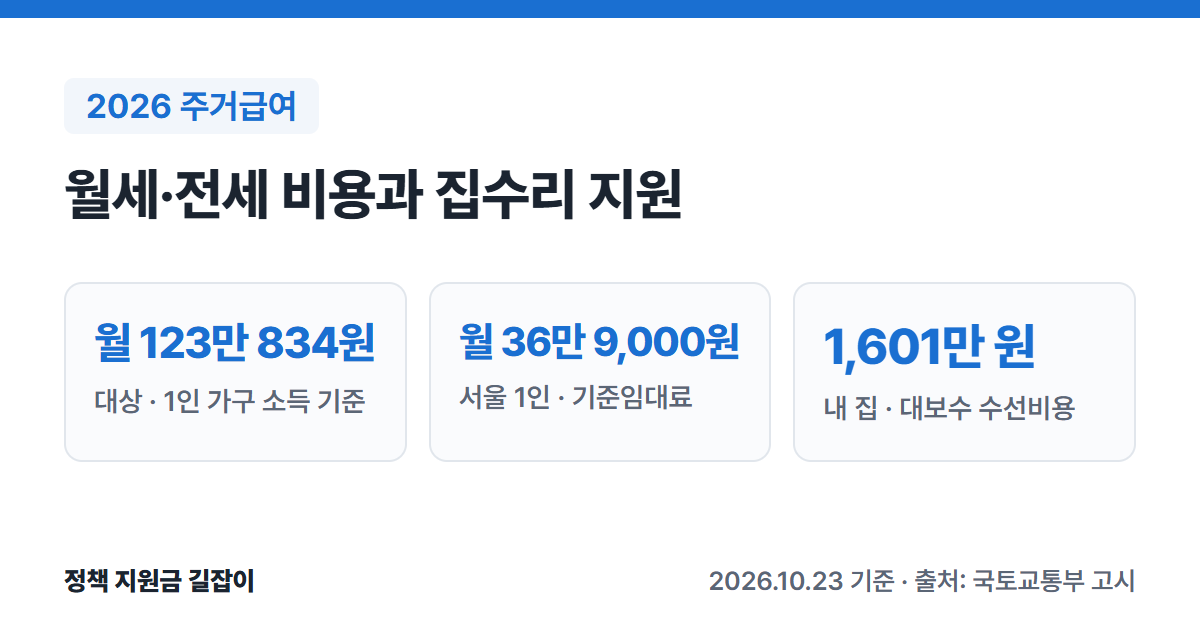
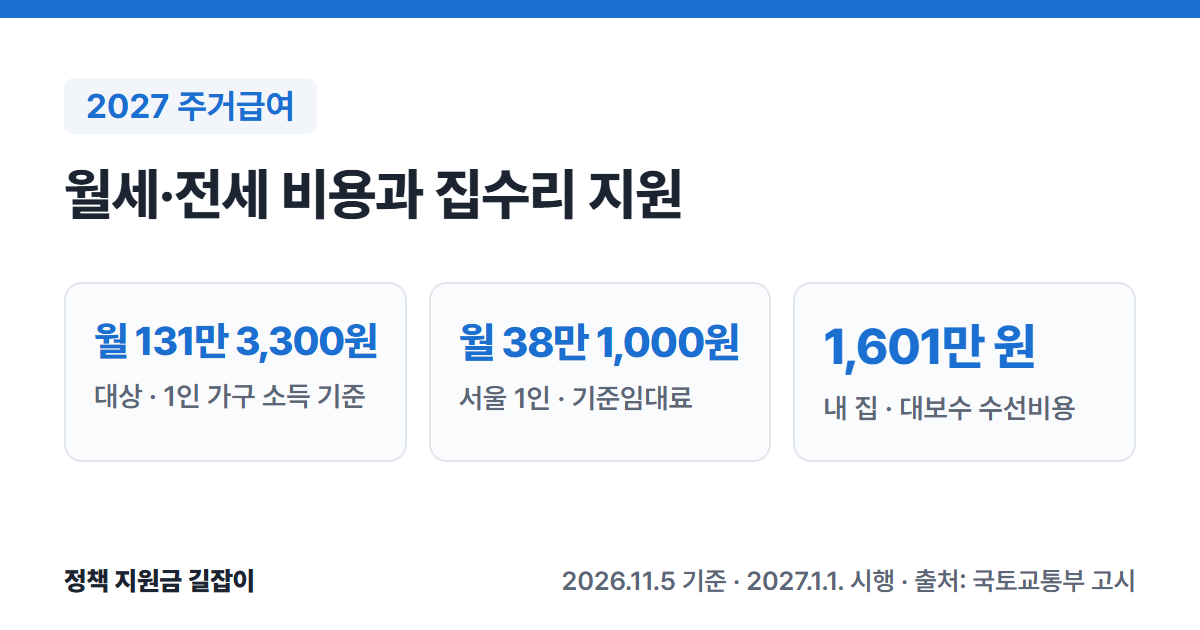
주거급여 글을 2027년 기준(국토부 고시 제2026-455호, 2027.1.1. 시행)으로 갱신, 카드·관련 글 링크 이름 수정

diff --git a/_tools/card.html b/_tools/card.html
@@ -211,10 +211,10 @@ const cards = {
     foot: "2026.10.24 기준 · 출처: 고용노동부·고용보험법"
   },
   "housing-benefit-2026": {
-    label: "2026 주거급여",
+    label: "2027 주거급여",
     title: "월세·전세 비용과 집수리 지원",
-    stats: [["월 123만 834원", "대상 · 1인 가구 소득 기준"], ["월 36만 9,000원", "서울 1인 · 기준임대료"], ["1,601만 원", "내 집 · 대보수 수선비용"]],
-    foot: "2026.10.23 기준 · 출처: 국토교통부 고시"
+    stats: [["월 131만 3,300원", "대상 · 1인 가구 소득 기준"], ["월 38만 1,000원", "서울 1인 · 기준임대료"], ["1,601만 원", "내 집 · 대보수 수선비용"]],
+    foot: "2026.11.5 기준 · 2027.1.1. 시행 · 출처: 국토교통부 고시"
   },
   "emergency-welfare-support-2026": {
     label: "2026 긴급복지지원",

diff --git a/_posts/2026-10-23-housing-benefit-2026.md b/_posts/2026-10-23-housing-benefit-2026.md
@@ -1,6 +1,6 @@
 ---
 layout: post
-title: "2026 주거급여 총정리: 서울 1인 월 최대 36만 9,000원, 자가 가구 집수리 대보수 1,601만 원 (대상·금액·신청 방법)"
+title: "2027 주거급여 총정리: 서울 1인 월 최대 38만 1,000원, 1인 가구 소득 131만 3,300원 이하 (대상·금액·신청 방법)"
 date: 2026-10-23 10:00:00 +0900
 topic: 생활비
 who: ["중위소득 48% 이하"]
@@ -8,15 +8,15 @@ image: /assets/images/cards/housing-benefit-2026.png
 ---
 
 **주거급여**는 소득이 낮은 가구에 월세·전세 비용을 지원하고, 내 집에 사는 가구에는 낡은 집을 고쳐 주는 제도예요.
-2026년에는 소득인정액이 **기준 중위소득 48% 이하**인 가구가 받을 수 있어요. 1인 가구는 **월 123만 834원 이하**예요.
-국토교통부 고시 원문을 바탕으로 대상, 지역별 금액, 계산 방법, 신청 방법을 정리했어요.
+**2027년 1월 1일**부터 새 기준이 적용돼요. 소득인정액이 **기준 중위소득 48% 이하**인 가구가 받을 수 있고, 1인 가구는 **월 131만 3,300원 이하**예요. (출처①)
+2026년 12월까지는 2026년 기준이 그대로 쓰여요. (출처①⑥) 국토교통부 고시 원문을 바탕으로 두 해 기준을 함께 정리했어요.
 
-![2026 주거급여 요약: 대상 1인 가구 소득 기준 월 123만 834원, 서울 1인 가구 기준임대료 월 36만 9,000원, 내 집 대보수 수선비용 1,601만 원](/assets/images/cards/housing-benefit-2026.png){: .summary-card}
+![2027 주거급여 요약: 대상 1인 가구 소득 기준 월 131만 3,300원, 서울 1인 가구 기준임대료 월 38만 1,000원, 내 집 대보수 수선비용 1,601만 원](/assets/images/cards/housing-benefit-2026.png){: .summary-card}
 
 > 💡 **핵심 요약**
-> - 소득인정액이 **기준 중위소득 48% 이하**면 받을 수 있어요. 1인 가구 **월 123만 834원**, 4인 가구 **월 311만 7,474원** 이하예요. (출처①)
-> - 세 사는 가구는 지역·가구원 수별 **기준임대료**까지 실제 임차료를 받아요. 서울 1인 가구는 **월 36만 9,000원**이 상한이에요. (출처①②)
-> - 내 집에 사는 가구는 집 상태에 따라 수선비용 기준금액 **590만 원~1,601만 원**의 **80~100%**를 수리로 지원받아요. (출처①)
+> - 2027년에는 소득인정액이 **기준 중위소득 48% 이하**면 받을 수 있어요. 1인 가구 **월 131만 3,300원**, 4인 가구 **월 332만 6,345원** 이하예요. (출처①)
+> - 세 사는 가구는 지역·가구원 수별 **기준임대료**까지 실제 임차료를 받아요. 2027년 서울 1인 가구는 **월 38만 1,000원**이 상한이에요(2026년 36만 9,000원). (출처①②⑥)
+> - 내 집에 사는 가구는 집 상태에 따라 수선비용 기준금액 **590만 원~1,601만 원**의 **80~100%**를 수리로 지원받아요. 2026년과 같아요. (출처①⑥)
 
 > **출처 표시 방법**: 본문의 (출처①) 같은 표시는 글 끝 출처 목록의 번호와 같아요.
 
@@ -36,6 +36,7 @@ image: /assets/images/cards/housing-benefit-2026.png
 | 세 사는 가구 | 기준임대료 안에서 **실제 임차료** 지원 (현금) |
 | 내 집 가구 | 경보수·중보수·대보수 **집수리** 지원 |
 | 청년 분리지급 | 부모와 따로 사는 **만 19~30세 미만** 미혼 자녀 |
+| 2027년 기준 | **2027.1.1.**부터 적용 |
 | 신청 | 주소지 **읍·면·동 주민센터** 또는 **복지로** |
 
 (출처①②③⑤)
@@ -46,19 +47,19 @@ image: /assets/images/cards/housing-benefit-2026.png
 
 ### 소득인정액이 기준 중위소득 48% 이하예요
 
-**소득인정액**은 한 달 소득에 재산을 소득으로 바꾼 금액을 더한 값이에요. (출처⑤) 이 금액이 기준 중위소득 48%인 아래 기준 이하여야 해요. (출처①⑤)
+**소득인정액**은 한 달 소득에 재산을 소득으로 바꾼 금액을 더한 값이에요. (출처⑤) 이 금액이 기준 중위소득 48%인 아래 기준 이하여야 해요. (출처①⑤⑥)
 
-| 가구원 수 | 선정기준 (월) |
-|---|---|
-| 1인 | **123만 834원** |
-| 2인 | **201만 5,660원** |
-| 3인 | **257만 2,337원** |
-| 4인 | **311만 7,474원** |
-| 5인 | **362만 7,225원** |
-| 6인 | **410만 6,857원** |
-| 7인 | **456만 7,272원** |
+| 가구원 수 | 2027년 (월) | 2026년 (월) |
+|---|---|---|
+| 1인 | **131만 3,300원** | 123만 834원 |
+| 2인 | **215만 710원** | 201만 5,660원 |
+| 3인 | **274만 4,684원** | 257만 2,337원 |
+| 4인 | **332만 6,345원** | 311만 7,474원 |
+| 5인 | **387만 249원** | 362만 7,225원 |
+| 6인 | **438만 2,016원** | 410만 6,857원 |
+| 7인 | **487만 3,279원** | 456만 7,272원 |
 
-(출처①)
+(2027년 출처①, 2026년 출처⑥)
 
 8인 이상 가구는 7인 기준에 '7인과 6인 기준의 차이'를 더해서 정해요. (출처①)
 
@@ -74,7 +75,24 @@ image: /assets/images/cards/housing-benefit-2026.png
 
 세 사는 가구는 **임차급여**, 내 집에 사는 가구는 **수선유지급여**를 받아요. 두 가지를 동시에 받지는 않아요. (출처②)
 
-### 세 사는 가구: 기준임대료 (월 상한)
+### 세 사는 가구: 2027년 기준임대료 (월 상한)
+
+| 가구원 수 | 서울 / 경기·인천 | 광역시 등 / 그 외 |
+|---|---|---|
+| 1인 | **38만 1천** / **31만 3천** | **25만 9천** / **23만 4천** |
+| 2인 | **43만 1천** / **35만 2천** | **29만 1천** / **26만 5천** |
+| 3인 | **51만 4천** / **42만 2천** | **34만 7천** / **31만 8천** |
+| 4인 | **59만 6천** / **48만 8천** | **40만 3천** / **36만 9천** |
+| 5인 | **61만 8천** / **50만 5천** | **41만 8천** / **38만 2천** |
+| 6인 | **73만 1천** / **59만 9천** | **49만 2천** / **45만 2천** |
+
+(출처①, 단위: 원)
+
+- **광역시 등**: 광역시, 세종시, 수도권 밖 특례시예요. (출처①)
+- 7인 가구는 6인 기준임대료와 같아요. 8~9인 가구는 6인 기준임대료에 10%를 더해요. (출처①)
+
+<details markdown="1">
+<summary>2026년 12월까지 적용되는 2026년 기준임대료 보기</summary>
 
 | 가구원 수 | 서울 / 경기·인천 | 광역시 등 / 그 외 |
 |---|---|---|
@@ -85,10 +103,9 @@ image: /assets/images/cards/housing-benefit-2026.png
 | 5인 | **59만 1천** / **47만 9천** | **39만 4천** / **34만** |
 | 6인 | **69만 9천** / **56만 8천** | **46만 3천** / **40만 2천** |
 
-(출처①, 단위: 원)
+(출처⑥, 단위: 원)
 
-- **광역시 등**: 광역시, 세종시, 수도권 밖 특례시예요. (출처①)
-- 7인 가구는 6인 기준임대료와 같아요. 8~9인 가구는 6인 기준임대료에 10%를 더해요. (출처①)
+</details>
 
 ### 실제로 받는 금액 계산 방법
 
@@ -96,15 +113,15 @@ image: /assets/images/cards/housing-benefit-2026.png
 2. 실제 임차료와 기준임대료 중 **적은 금액**이 기본 금액이에요. (출처②)
 3. 소득인정액이 **생계급여 선정기준**보다 많으면, 넘는 금액의 **30%**를 빼요. (출처②)
 
-생계급여 선정기준은 2026년 1인 가구 **82만 556원**, 4인 가구 **207만 8,316원**이에요. (출처④)
+2027년 생계급여 선정기준은 1인 가구 **87만 5,533원**, 4인 가구 **221만 7,563원**이에요. (출처④)
 
-> **예시 (계산해 본 값)**: 서울에 사는 1인 가구, 월세 40만 원, 보증금 500만 원, 소득인정액 100만 원
+> **예시 (계산해 본 값)**: 2027년, 서울에 사는 1인 가구, 월세 40만 원, 보증금 500만 원, 소득인정액 100만 원
 > - 실제 임차료: 40만 원 + (500만 원 × 4% ÷ 12 = 약 1만 6,667원) = 약 41만 6,667원
-> - 기준임대료 36만 9,000원이 더 적으므로 기본 금액은 36만 9,000원
-> - 자기부담: (100만 원 − 82만 556원) × 30% = 약 5만 3,833원
-> - 받는 금액: 36만 9,000원 − 5만 3,833원 = **월 약 31만 5,170원** (10원 단위로 올림)
+> - 기준임대료 38만 1,000원이 더 적으므로 기본 금액은 38만 1,000원
+> - 자기부담: (100만 원 − 87만 5,533원) × 30% = 약 3만 7,340원
+> - 받는 금액: 38만 1,000원 − 3만 7,340원 = **월 약 34만 3,660원** (10원 단위로 올림)
 >
-> (출처②④의 기준으로 직접 계산한 예시예요. 실제 금액은 주택조사 결과에 따라 달라져요.)
+> (출처①②④의 기준으로 직접 계산한 예시예요. 실제 금액은 주택조사 결과에 따라 달라져요.)
 
 - 계산한 금액이 1만 원보다 적어도 **1만 원**은 받아요. (출처②)
 - 실제 임차료가 기준임대료의 **5배**를 넘으면 1만 원만 받아요. (출처②)
@@ -119,7 +136,7 @@ image: /assets/images/cards/housing-benefit-2026.png
 | 중보수 | **1,095만 원** / 5년 |
 | 대보수 | **1,601만 원** / 7년 |
 
-(출처①)
+(출처①, 2026년과 같음)
 
 소득에 따라 수선비용의 일부를 지원해요. (출처①)
 
@@ -135,7 +152,7 @@ image: /assets/images/cards/housing-benefit-2026.png
 
 부모님 가구가 주거급여를 받고, 미혼 자녀가 부모와 **다른 시·군**에 따로 살면 자녀 몫의 임차급여를 따로 받을 수 있어요. (출처②)
 
-- **나이**: 만 19세(그해 1월 1일에 만 19세가 된 사람 포함) ~ 만 30세 미만 (출처②⑤)
+- **나이**: 만 19세가 되는 해의 1월 1일부터 ~ 만 30세가 되는 달 전까지(출생월 적용) (출처②⑤)
 - **조건**: 청년 이름으로 임대차계약을 하고 임차료를 내야 해요. 전입신고도 해야 해요. (출처⑤)
 - **같은 시·군**이어도 대중교통 사정이나 장애 등 부득이한 사유가 있으면 인정받을 수 있어요. (출처②)
 
@@ -156,9 +173,13 @@ image: /assets/images/cards/housing-benefit-2026.png
 
 ## 자주 묻는 질문
 
+### 지금 받고 있으면 2027년에 다시 신청해야 하나요?
+
+2027년 기준은 고시에 따라 **2027년 1월 1일**부터 적용돼요. (출처①) 이미 받고 있는 가구가 따로 다시 신청해야 하는지는 고시에 나와 있지 않아요. 주민센터나 복지로에서 확인하세요.
+
 ### 월세를 밀리면 어떻게 되나요?
 
-월세를 3개월 이상 밀리면 임차급여가 중지될 수 있어요. 이때 집주인이 신청하면 집주인 계좌로 바로 지급돼요. (출처②)
+월세에서 주거급여를 뺀 본인 부담분보다 많이 밀린 달이 3개월 이상이면 임차급여가 중지될 수 있어요. 이때 집주인이 신청하면 집주인 계좌로 바로 지급돼요. (출처②)
 
 ### 이사하면 다시 신청해야 하나요?
 
@@ -177,20 +198,19 @@ image: /assets/images/cards/housing-benefit-2026.png
 ## 함께 보면 좋은 글
 
 - [2026 생활비 지원 총정리]({% post_url 2026-10-29-living-cost-support-2026 %}): 생계급여·주거급여·기초연금·긴급복지 등 내 상황에 맞는 제도 찾기
+- [2027 기준 중위소득 정리]({% post_url 2026-11-04-median-income-2027 %}): 생계·의료·주거·교육급여 기준이 2027년에 얼마나 오르는지
 - [2026 청년 주거 지원 총정리]({% post_url 2026-10-16-youth-housing-support-2026 %}): 월세 지원·전세대출·공공임대까지 청년 주거 제도 한눈에
-- [2026 긴급복지지원 총정리]({% post_url 2026-10-22-emergency-welfare-support-2026 %}): 갑작스러운 위기로 집에서 지내기 어려울 때 받는 임시 거처 지원
-- [2026 에너지바우처 총정리]({% post_url 2026-10-16-energy-voucher-2026 %}): 주거급여 수급자도 받을 수 있는 냉난방비 지원
-- [2026 생계급여 총정리]({% post_url 2026-10-24-livelihood-benefit-2026 %}): 기준 중위소득 32% 이하 가구가 매달 받는 생활비(1인 월 최대 82만 556원)
+- [2026 생계급여 총정리]({% post_url 2026-10-24-livelihood-benefit-2026 %}): 기준 중위소득 32% 이하 가구가 매달 받는 생활비
 
 ---
 
 ## 출처
 
-1. [국가법령정보센터 - 국토교통부 고시 「2026년 주거급여 선정기준 및 최저보장수준」(제2025-506호, 2025.9.15., 2026.1.1. 시행)](https://www.law.go.kr/admRulInfoP.do?admRulSeq=2100000264366) - 가구원 수별 선정기준, 지역별 기준임대료, 보수범위별 수선비용·주기, 소득별 지원율 (확인일: 2026-10-23)
+1. [국가법령정보센터 - 국토교통부 고시 「2027년 주거급여 선정기준 및 최저보장수준」(제2026-455호, 2026.8.31., 2027.1.1. 시행)](https://www.law.go.kr/admRulInfoP.do?admRulSeq=2100000284670) - 2027년 가구원 수별 선정기준, 지역별 기준임대료, 보수범위별 수선비용·주기, 소득별 지원율, 시행일(부칙) (확인일: 2026-11-05)
 2. [국가법령정보센터 - 국토교통부 고시 「주거급여 실시에 관한 고시」(제2026-379호, 2026.7.16.)](https://www.law.go.kr/admRulInfoP.do?admRulSeq=2100000282666) - 임차급여 산정 방식(제7조), 지급 대상·제외(제6조), 청년 분리지급(제3조의2), 월차임 연체(제10~12조), 수선유지급여(제19~25조), 주택조사(제31조) (확인일: 2026-10-23)
 3. [국가법령정보센터 - 「주거급여법」](https://www.law.go.kr/법령/주거급여법) - 선정기준(제5조), 임차료·수선유지비 지급(제7·8조), 벌칙(제24조) (확인일: 2026-10-23)
-4. [국가법령정보센터 - 보건복지부 고시 「2026년 기준 중위소득 및 생계·의료급여 선정기준과 최저보장수준」(제2025-135호)](https://www.law.go.kr/admRulInfoP.do?admRulSeq=2100000262584) - 2026년 생계급여 선정기준 (확인일: 2026-10-23)
+4. [보건복지부 보도자료 - 내년 기준 중위소득 6.70% 역대 최대 인상, "가장 어려운 국민 생활 더욱 두텁게 보호" (2026.7.28.)](https://www.mohw.go.kr/board.es?mid=a10503010100&bid=0027&act=view&list_no=1491453) - 2027년 생계급여 선정기준 (확인일: 2026-11-04)
 5. [복지로 - 주거급여(맞춤형 급여) 서비스 안내](https://www.bokjiro.go.kr/ssis-tbu/twataa/wlfareInfo/moveTWAT52011M.do?wlfareInfoId=WLF00003201) - 소득인정액 뜻, 청년 분리지급 조건(임대차계약·전입신고), 신청 기관과 절차 (확인일: 2026-10-23)
-6. [국가법령정보센터 - 국토교통부 고시 「2027년 주거급여 선정기준 및 최저보장수준」(2026.8.31. 발령, 2027.1.1. 시행)](https://www.law.go.kr/admRulInfoP.do?admRulSeq=2100000284670) - 2027년 기준이 따로 정해졌다는 사실 (확인일: 2026-10-23)
+6. [국가법령정보센터 - 국토교통부 고시 「2026년 주거급여 선정기준 및 최저보장수준」(제2025-506호, 2025.9.15., 2026.1.1. 시행)](https://www.law.go.kr/admRulInfoP.do?admRulSeq=2100000264366) - 2026년 선정기준·기준임대료·수선비용 (확인일: 2026-10-23)
 
-> 이 글은 **2026년 10월 23일** 기준이에요. 2027년 기준은 따로 고시됐어요(2027.1.1. 시행, 출처⑥). 가구원 수별 2027년 선정기준과 기준임대료는 [2027 기준 중위소득 정리]({% post_url 2026-11-04-median-income-2027 %})에 있어요. 신청 전에 주민센터나 복지로에서 꼭 확인하세요.
+> 이 글은 **2026년 11월 5일** 기준이에요(2026.10.23. 처음 작성, 11.5. 2027년 기준으로 갱신). 2026년 12월까지는 2026년 기준, 2027년 1월 1일부터는 2027년 기준이 적용돼요. 신청 전에 주민센터나 복지로에서 꼭 확인하세요.

diff --git a/_posts/2026-10-24-livelihood-benefit-2026.md b/_posts/2026-10-24-livelihood-benefit-2026.md
@@ -170,7 +170,7 @@ image: /assets/images/cards/livelihood-benefit-2026.png
 ### 생계급여와 주거급여는 기준이 어떻게 다른가요?
 
 두 급여는 기준이 따로 있어요. 생계급여는 기준 중위소득 **32%**, 주거급여는 **48%** 이하가 대상이에요. (출처③)
-주거급여는 집세나 집수리를 따로 지원하니 함께 확인해 보세요. 자세한 내용은 [2026 주거급여 총정리]({% post_url 2026-10-23-housing-benefit-2026 %})에 있어요.
+주거급여는 집세나 집수리를 따로 지원하니 함께 확인해 보세요. 자세한 내용은 [2027 주거급여 총정리]({% post_url 2026-10-23-housing-benefit-2026 %})에 있어요.
 
 ### 2027년에는 금액이 오르나요?
 
@@ -192,7 +192,7 @@ image: /assets/images/cards/livelihood-benefit-2026.png
 ## 함께 보면 좋은 글
 
 - [2026 생활비 지원 총정리]({% post_url 2026-10-29-living-cost-support-2026 %}): 생계급여·주거급여·기초연금·긴급복지 등 내 상황에 맞는 제도 찾기
-- [2026 주거급여 총정리]({% post_url 2026-10-23-housing-benefit-2026 %}): 기준 중위소득 48% 이하 가구의 월세·전세·집수리 지원
+- [2027 주거급여 총정리]({% post_url 2026-10-23-housing-benefit-2026 %}): 기준 중위소득 48% 이하 가구의 월세·전세·집수리 지원
 - [2026 긴급복지지원 총정리]({% post_url 2026-10-22-emergency-welfare-support-2026 %}): 실직·질병 등 갑작스러운 위기 때 먼저 받는 생계비
 - [2026 에너지바우처 총정리]({% post_url 2026-10-16-energy-voucher-2026 %}): 기초생활수급 가구 중 노인·영유아·장애인 등이 있으면 받는 냉난방비
 - [2026 장애인연금 총정리]({% post_url 2026-10-25-disability-pension-2026 %}): 소득이 적은 18세 이상 중증장애인이 매달 받는 연금

diff --git a/_posts/2026-11-04-median-income-2027.md b/_posts/2026-11-04-median-income-2027.md
@@ -136,7 +136,7 @@ image: /assets/images/cards/median-income-2027.png
 - 5인은 서울 61만 8천 원, 6인은 서울 73만 1천 원이에요. 7인은 6인과 같고, 8~9인은 6인 금액에 10%를 더해요. (출처①)
 - '광역·세종·특례시'는 광역시, 세종시, 수도권 밖 특례시를 말해요. (출처①)
 - 집을 가진 가구의 수선비용은 경보수 **590만 원**, 중보수 **1,095만 원**, 대보수 **1,601만 원**으로 2026년과 같아요. (출처①)
-- 주거급여 대상과 신청 방법은 [2026 주거급여 총정리]({% post_url 2026-10-23-housing-benefit-2026 %})에 있어요.
+- 주거급여 대상과 신청 방법은 [2027 주거급여 총정리]({% post_url 2026-10-23-housing-benefit-2026 %})에 있어요.
 
 ### 교육급여 (중위소득 50%)
 
@@ -201,7 +201,7 @@ image: /assets/images/cards/median-income-2027.png
 
 - [2026 생활비 지원 총정리]({% post_url 2026-10-29-living-cost-support-2026 %}): 상황별로 받을 수 있는 생활비 지원을 한 번에 찾기
 - [2026 생계급여 총정리]({% post_url 2026-10-24-livelihood-benefit-2026 %}): 소득인정액 계산과 신청 방법
-- [2026 주거급여 총정리]({% post_url 2026-10-23-housing-benefit-2026 %}): 임차급여·수선유지급여 대상과 신청 방법
+- [2027 주거급여 총정리]({% post_url 2026-10-23-housing-benefit-2026 %}): 임차급여·수선유지급여 대상과 신청 방법
 
 ## 출처
 

diff --git a/_posts/2026-10-24-basic-pension-2026.md b/_posts/2026-10-24-basic-pension-2026.md
@@ -176,7 +176,7 @@ image: /assets/images/cards/basic-pension-2026.png
 - [2026 생활비 지원 총정리]({% post_url 2026-10-29-living-cost-support-2026 %}): 생계급여·주거급여·기초연금·긴급복지 등 내 상황에 맞는 제도 찾기
 - [2026 생계급여 총정리]({% post_url 2026-10-24-livelihood-benefit-2026 %}): 소득이 아주 적은 가구가 매달 받는 생활비 지원
 - [2026 에너지바우처 총정리]({% post_url 2026-10-16-energy-voucher-2026 %}): 기초생활수급 가구 중 1961년 12월 31일 이전 출생 어르신이 있으면 받는 냉난방비
-- [2026 주거급여 총정리]({% post_url 2026-10-23-housing-benefit-2026 %}): 소득이 낮은 가구의 월세 지원과 내 집 수리
+- [2027 주거급여 총정리]({% post_url 2026-10-23-housing-benefit-2026 %}): 소득이 낮은 가구의 월세 지원과 내 집 수리
 - [2026 장애인연금 총정리]({% post_url 2026-10-25-disability-pension-2026 %}): 소득이 적은 18세 이상 중증장애인이 받는 연금, 65세가 되는 달부터 기초급여는 기초연금으로 바뀜
 - [2026 노인일자리 총정리]({% post_url 2026-10-30-senior-jobs-2026 %}): 기초연금 수급자가 참여하는 공익활동 월 29만 원, 역량활용 월 최대 76만 1,040원
 

diff --git a/_posts/2026-10-22-emergency-welfare-support-2026.md b/_posts/2026-10-22-emergency-welfare-support-2026.md
@@ -210,7 +210,7 @@ image: /assets/images/cards/emergency-welfare-support-2026.png
 - [2026 실업급여(구직급여) 총정리]({% post_url 2026-10-24-unemployment-benefit-2026 %}): 고용보험 가입자가 직장을 잃었을 때 받는 구직급여(하루 최대 6만 8,100원)
 - [2026 국민취업지원제도 총정리]({% post_url 2026-10-18-national-employment-support-2026 %}): 실직 뒤 구직 활동 중에 받는 구직촉진수당과 취업 지원
 - [2026 생계급여 총정리]({% post_url 2026-10-24-livelihood-benefit-2026 %}): 위기가 길어질 때 살펴볼 기초생활보장 생활비 지원(기준 중위소득 32% 이하)
-- [2026 주거급여 총정리]({% post_url 2026-10-23-housing-benefit-2026 %}): 소득이 낮은 가구의 월세·전세 비용과 집수리를 지원하는 제도
+- [2027 주거급여 총정리]({% post_url 2026-10-23-housing-benefit-2026 %}): 소득이 낮은 가구의 월세·전세 비용과 집수리를 지원하는 제도
 
 ---
 

diff --git a/_posts/2026-10-16-energy-voucher-2026.md b/_posts/2026-10-16-energy-voucher-2026.md
@@ -179,7 +179,7 @@ image: /assets/images/cards/energy-voucher-2026.png
 - [2026 문화누리카드 총정리]({% post_url 2026-10-17-culture-nuri-card-2026 %}): 수급자·차상위 1인 15만 원 문화·여행비, 11월 30일 발급 마감
 - [2026 스포츠강좌이용권 총정리]({% post_url 2026-10-20-sports-voucher-2026 %}): 수급자·차상위 가구 아이의 운동 수강료 월 10만 5천 원
 - [2026 긴급복지지원 총정리]({% post_url 2026-10-22-emergency-welfare-support-2026 %}): 실직·질병·폐업 등 갑작스러운 위기 때 생계비(4인 월 199만 4,600원)를 먼저 지원
-- [2026 주거급여 총정리]({% post_url 2026-10-23-housing-benefit-2026 %}): 수급 가구의 월세·전세 비용(서울 1인 월 최대 36만 9,000원)과 집수리 지원
+- [2027 주거급여 총정리]({% post_url 2026-10-23-housing-benefit-2026 %}): 수급 가구의 월세·전세 비용(2027년 서울 1인 월 최대 38만 1,000원)과 집수리 지원
 
 ---
 

diff --git a/_posts/2026-10-29-living-cost-support-2026.md b/_posts/2026-10-29-living-cost-support-2026.md
@@ -59,7 +59,7 @@ image: /assets/images/cards/living-cost-support-2026.png
 - 소득인정액이 **기준 중위소득 48% 이하**면 받을 수 있어요. 1인 가구 **월 123만 834원** 이하예요. (출처③⑭)
 - 세 사는 가구는 지역·가구원 수별 기준임대료까지 실제 임차료를 받아요. 서울 1인 가구는 **월 36만 9,000원**이 상한이에요. 소득에 따라 일부를 본인이 부담할 수 있어요. (출처③⑰)
 - 내 집에 사는 가구는 집 상태에 따라 수선비용 **590만 원~1,601만 원**의 **80~100%**를 수리로 지원받아요. (출처③)
-- 자세히: [2026 주거급여 총정리]({% post_url 2026-10-23-housing-benefit-2026 %})
+- 자세히: [2027 주거급여 총정리]({% post_url 2026-10-23-housing-benefit-2026 %})
 
 ---
 

diff --git a/_posts/2026-10-16-youth-housing-support-2026.md b/_posts/2026-10-16-youth-housing-support-2026.md
@@ -78,7 +78,7 @@ image: /assets/images/cards/youth-housing-support-2026.png
 - 부모님 가구가 사용대차(돈을 내지 않고 빌려 사는 집)나 공동생활가정 등에 사는 경우에는 분리지급을 신청할 수 없어요. (출처⑦)
 - 신청은 주소지 행정복지센터나 복지로에서 해요. 대상 나이 등 자세한 기준은 신청 전에 행정복지센터에 꼭 확인하세요. (출처⑦)
 
-👉 주거급여 금액(지역별 기준임대료)과 계산 방법은 [2026 주거급여 총정리]({% post_url 2026-10-23-housing-benefit-2026 %})에서 확인하세요.
+👉 주거급여 금액(지역별 기준임대료)과 계산 방법은 [2027 주거급여 총정리]({% post_url 2026-10-23-housing-benefit-2026 %})에서 확인하세요.
 
 ---
 
